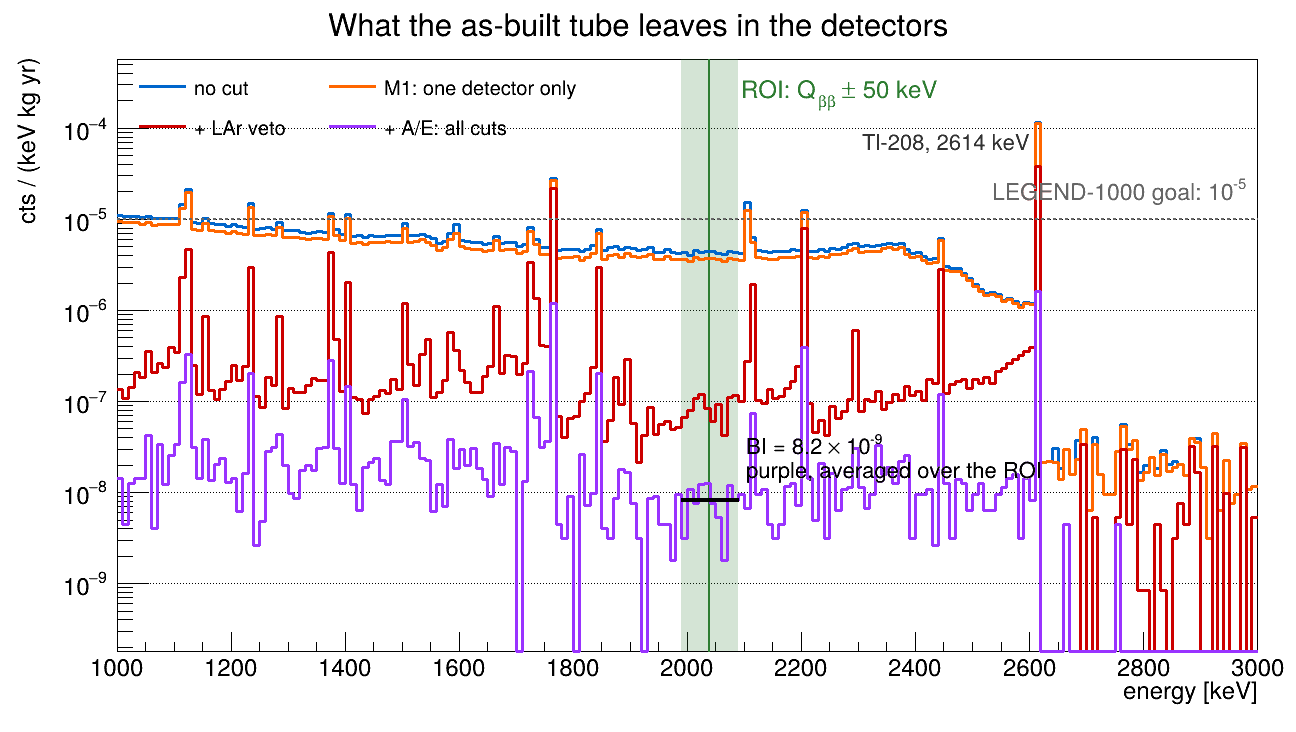
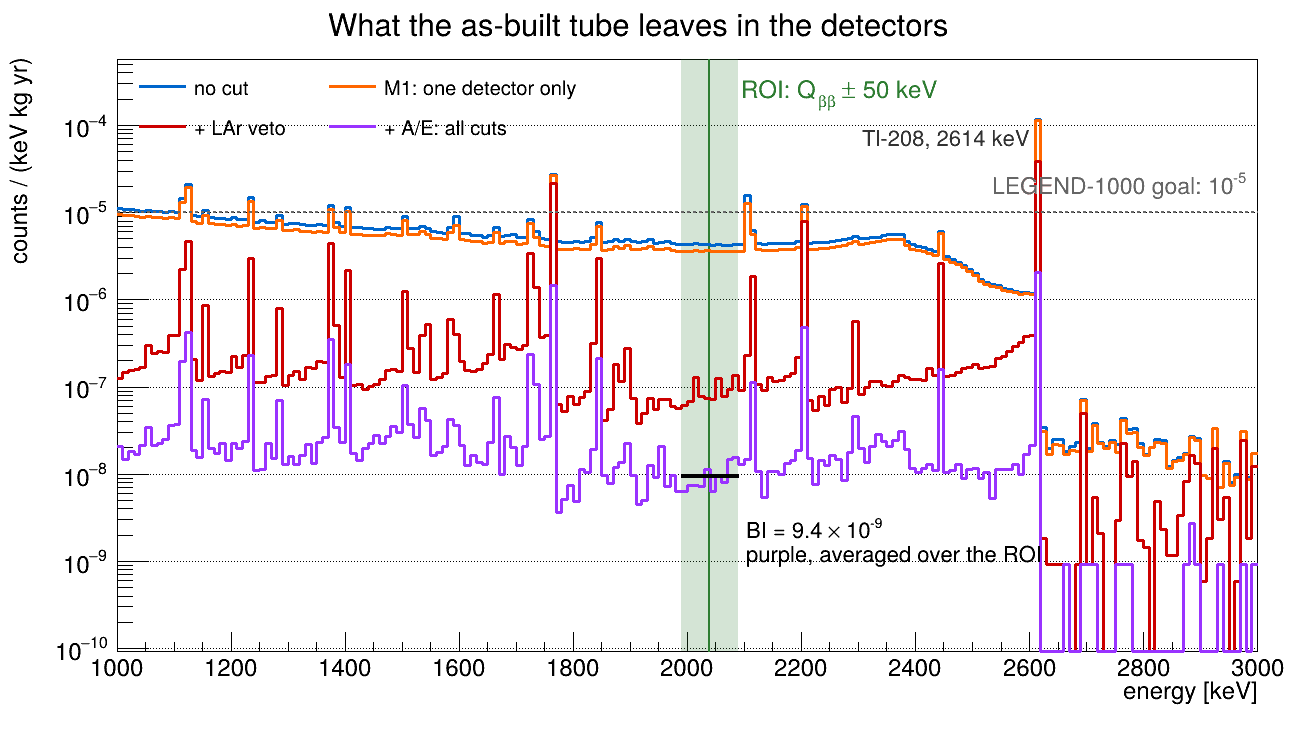
results from a nersc rerun with more EFCu stats

diff --git a/ana/background.C b/ana/background.C
@@ -16,9 +16,10 @@ namespace cfg
   // the cuts of the LEGEND-1000 simulation production (legend1000-metadata simprod/config, l1000dsg01: tier/evt, pars/geds/psdcuts)
   const double m1_keV = 25.0;  // a detector fired above this; M1: exactly one did
   const double lar_pe = 4.0;   // the LAr veto rejects a decay whose SiPMs see this many photoelectrons, summed
-  const double psd_low = -1.5; // the production's A/E cut: keep a hit whose A/E classifier is above this (low side)
-  // ...but the analysis sets it as LEGEND does in data ([5]): at the classifier value that keeps this fraction of the Tl208
-  // double-escape peak (DEP, single site like 0vbb) in M1 events, net of the continuum under it
+  const double psd_low = -1.5; // the production's A/E cut, used here: keep a hit whose A/E classifier is above this (low side)
+  // LEGEND sets it in data to keep this fraction of the Tl208 double-escape peak (DEP, single site like 0vbb); here that
+  // is only checked: this one-template A/E model leaves the DEP's A/E with a long flat tail, so 90% falls far below the
+  // production's cut (-6.6 with 5x more EFCu decays), where the SEP and FEP pass 3x more than measured at HADES
   const double depKeep = 0.90, depE = 1592.5, depHalf = 2.5, sideLo = 5.0, sideHi = 10.0; // keV: peak +-2.5, sidebands 5-10 off it
   const int NC = 4;                                                                       // cut levels: none, M1, M1 + LAr, M1 + LAr + A/E
   const char *cutName[NC] = {"no cut", "M1", "M1 + LAr", "M1 + LAr + A/E"};
@@ -644,10 +645,9 @@ static std::vector<std::string> expand(const std::string &pat) // "output/tl208*
   return out;
 }
 
-// the A/E cut as LEGEND sets it: the classifier threshold that keeps cfg::depKeep of the DEP of Tl208, in M1 hits of every
-// Tl208 run of the tube, the continuum under the peak subtracted with the sidebands. one value for all detectors: they
-// share one template and one set of parameters. then the cut on the other lines a 228Th calibration measures it on, and on
-// the window's continuum, against the HADES characterization of the L1000 template detector V00000A
+// the production's A/E cut, checked: what it keeps of the DEP, SEP and FEP of Tl208 in M1 hits of every Tl208 run of the
+// tube (the continuum under each peak subtracted with the sidebands) and of the ROI, against the HADES characterization of
+// the L1000 template detector V00000A; and where LEGEND's 90%-of-the-DEP rule would put it. one value for all detectors
 static void tuneAoE(const std::vector<std::string> &files)
 {
   struct Line
@@ -703,14 +703,14 @@ static void tuneAoE(const std::vector<std::string> &files)
     printf("A/E CUT  only %.0f DEP counts net, kept at the production's %.2f\n\n", net(dep), cfg::psd_low);
     return;
   }
-  double thr = 0;
+  double thr = 0; // where the 90% rule would put it
   while (thr > -50 && kept(dep, thr) < cfg::depKeep)
     thr -= 0.005;
-  gPsdLow = thr;
-  printf("A/E CUT  tuned on the Tl208 DEP (%.1f keV) in M1 hits: %zu in +-%.1f keV, %zu in the sidebands %.0f-%.0f keV off it, %.0f net\n",
-         cfg::depE, dep.peak.size(), cfg::depHalf, dep.side.size(), cfg::sideLo, cfg::sideHi, net(dep));
-  printf("    classifier > %.2f keeps %.0f%% of it (+- %.0f%% statistics); the production's > %.2f kept %.0f%%\n", gPsdLow, 100 * kept(dep, gPsdLow),
-         100 * sqrt(cfg::depKeep * (1 - cfg::depKeep) / net(dep)), cfg::psd_low, 100 * kept(dep, cfg::psd_low));
+  gPsdLow = cfg::psd_low;
+  printf("A/E CUT  the production's classifier > %.2f, checked on the Tl208 DEP (%.1f keV) in M1 hits: %zu in +-%.1f keV, %zu in the sidebands %.0f-%.0f keV off it, %.0f net\n",
+         cfg::psd_low, cfg::depE, dep.peak.size(), cfg::depHalf, dep.side.size(), cfg::sideLo, cfg::sideHi, net(dep));
+  printf("    it keeps %.0f%% of the DEP (+- %.0f%% statistics); keeping %.0f%% would take > %.2f\n", 100 * kept(dep, gPsdLow),
+         100 * sqrt(dep.peak.size() + k * k * dep.side.size()) / net(dep), 100 * cfg::depKeep, thr);
   printf("    kept by it, net of the continuum:");
   for (auto &l : line)
     printf("  %s %.1f %.2f (%.0f net)", l.name, l.e, kept(l, gPsdLow), net(l));
@@ -823,8 +823,8 @@ void background(const char *runs = "output/output_root/tl208*_hit.root=Tl208,out
   auto massOf = [&](double d0, double d1, int m)
   { return d1 > d0 ? rt.density[m] * rt.tubeVolume(rt.zTop - d1, rt.zTop - d0) * 1e-9 : 0.0; };
   printf("INPUTS  ROI: Qbb +- %.0f keV = %.0f-%.0f keV, one window short of the Tl208 single escape (2103.5 keV): %.0f keV\n", cfg::roiHalf, cfg::winLo, cfg::winHi, cfg::winWidth);
-  printf("        cuts: M1 (exactly one detector above %.0f keV), LAr veto (the SiPMs see < %.0f photoelectrons), A/E classifier > %.2f (%.0f%% DEP, A/E CUT)\n",
-         cfg::m1_keV, cfg::lar_pe, gPsdLow, 100 * cfg::depKeep);
+  printf("        cuts: M1 (exactly one detector above %.0f keV), LAr veto (the SiPMs see < %.0f photoelectrons), A/E classifier > %.2f (the production's, A/E CUT)\n",
+         cfg::m1_keV, cfg::lar_pe, gPsdLow);
   printf("        activity: chain [uBq/kg] 232Th / 238U: SS %g / %g, Cu %g / %g, EFCu %g / %g; Tl208 is %.2f%% of 232Th, Bi214 %.0f%% of 238U\n\n",
          cfg::chain[0][0], cfg::chain[0][1], cfg::chain[1][0], cfg::chain[1][1], cfg::chain[2][0], cfg::chain[2][1], 100 * cfg::branch[0], 100 * cfg::branch[1]);
 

diff --git a/README.md b/README.md
@@ -11,11 +11,36 @@ tube's background index (BI)? "Without changing" means within 10%.
 
 |                                                                 | SS : Cu : EFCu     | BI after all cuts [counts/(keV·kg·yr)]       |
 | --------------------------------------------------------------- | ------------------ | -------------------------------------------- |
-| as built                                                        | 619 : 672 : 175 kg | 0.82 ± 0.17 × 10⁻⁸ (before cuts 4.30 × 10⁻⁶) |
-| EFCu from 4.40 m (0.33 m shorter), SS to 2.69 m (0.63 m longer) | 809 : 489 : 146 kg | +9%: within 10%                              |
+| as built                                                        | 619 : 672 : 175 kg | 0.94 ± 0.09 × 10⁻⁸ (before cuts 4.29 × 10⁻⁶) |
+| EFCu from 4.40 m (0.33 m shorter), SS to 2.69 m (0.63 m longer) | 809 : 489 : 146 kg | +8%: within 10%                              |
 
-[how radioactive is EFCu?](#how-radioactive-is-efcu) · [Method](#method) · [Results](#results) ·
-[Future work](#future-work)
+[Getting started](#getting-started) · [how radioactive is EFCu?](#how-radioactive-is-efcu) · [Method](#method) ·
+[Results](#results) · [Future work](#future-work)
+
+## Getting started
+
+Getting to the first simulation took most of the work. The LEGEND-1000 geometry is generated with the collaboration's
+`legend-pygeom-l1000` package, written out as GDML, and read by remage, the collaboration's Geant4 application, which
+registers the 336 germanium detectors from a map stored in the GDML file itself. The software was first built from
+source for this work: Geant4, BxDecay0 and remage, on both Apple Silicon and Linux, through a chain in which each stage
+tests itself before passing on ([ElmikawyStack2026](https://github.com/h0t5tuff/Physics-Simulation-Stack)); on Apple
+Silicon, remage 0.26 also needed its library paths patched by hand. Over the course of this work the remage setup grew
+from separate tutorial examples into the single simulation used here, `sim/run.mac`, on remage's 1.1.0 release: pixi
+on the Mac, the collaboration's container on NERSC.
+
+The first geometry tried was a modified file, `KSendcap_l1kGeometry.gdml` (KS). Against the unmodified geometry, its
+tube's radius and its position along the axis were both shifted by 68 mm, with its length unchanged, and its endcap
+was 1 mm wider than the barrel where the two meet, so the tube check of §1 failed. Everything here uses the unmodified
+geometry ([ElmikawyRTsim2026](https://github.com/h0t5tuff/LEGEND1000-Simulation)).
+
+Three words, used throughout:
+
+- **decay:** one simulated nuclear decay of Tl-208 or Bi-214 in the tube's wall (a whole chain, for the holders);
+- **hit:** the energy one decay leaves in one detector; `sim/hit.py` makes them from the simulation's steps, and one
+  decay can leave hits in several detectors;
+- **count:** a decay whose energy in a detector lands in the ROI (the 100 keV window around `Qββ`, §4), after the
+  cuts in force. The simulation gives *simulated counts*; each stands for w real decays a year, and Σw is the
+  *counts a year* (§4).
 
 ## how radioactive is EFCu?
 
@@ -49,10 +74,20 @@ the analysis, §5 included (it runs inside `ana/background.C`).
 ### 1. The geometry
 
 `geom/l1000geom/l1000.gdml` (legend-pygeom-l1000 0.6.0), the full LEGEND-1000 geometry. The tube is 6.246 m tall and
-0.999 m in radius, its walls EFCu 1.5 mm (2.1 mm at the Cu seam), Cu and SS 6 mm; the 336 detectors sit 4.8-5.9 m
-below its top, inside the EFCu section. `ana/background.C` reads all of this from the GDML, with the densities and
-the germanium mass, and checks it before using it: a clean outline, the bottom head and the Cu and SS layers flush
-with the barrel.
+0.999 m in radius; the 336 detectors sit 4.8-5.9 m below its top, inside the EFCu section.
+
+Two checks run before any physics ([ElmikawyRTsim2026](https://github.com/h0t5tuff/LEGEND1000-Simulation)). The first
+builds the geometry and scans it for overlapping volumes: none (83 s). The second, at the start of
+`ana/background.C`, reads the tube from the GDML, with the densities and the germanium mass, and checks it: a clean
+outline, the bottom head and the Cu and SS layers flush with the barrel. It also profiles the wall: 1.5 mm of EFCu
+through the endcap and lower wall, thickening to 3 mm over the last 2 cm below the Cu seam, and 6 mm through the Cu
+and SS.
+
+Every later step reads the tube from this one file (the analysis, the pictures, the app), so no calculation uses a
+radius or seam typed into a script, apart from the lid's position, which `sim/run.mac` leaves out of the sampling.
+Wall volumes are computed by integrating the GDML outlines; an independent integration, by sampling points in the
+solids, agrees to 0.1%. A new design is a new GDML file; apart from that lid position, nothing downstream needs
+editing.
 
 ![the tube](output/tube.png)
 
@@ -73,6 +108,7 @@ borehole 53 mm deep from the top: 3.046 kg, 1023.4 kg in all. `geom/l1000geom/l1
 alone, offscreen, and prints its numbers:
 
 ```bash
+remage --ignore-warnings -s GDML=geom/l1000geom/l1000.gdml -s SKIP=false -s NPOINTS=1000 -- geom/l1000geom/check.mac 2>&1 | grep "Overlap is detected"
 ~/venvs/v/bin/python geom/l1000geom/l1000-autopeel.py --tube output/tube_geometry.png
 ~/venvs/v/bin/python geom/l1000geom/l1000-autopeel.py --uglar output/uglar_geometry.png
 ~/venvs/v/bin/python geom/l1000geom/l1000-autopeel.py --hpge output/hpge_geometry.png
@@ -85,11 +121,13 @@ chain) or **Bi-214** (²³⁸U chain), the only chain members whose gammas reach
 leaves in each detector and in the UGLAr. Its `-s` aliases: `GDML`; `Z` `A` (Tl-208: 81 208, Bi-214: 83 214); `NEV`;
 `SEED`, which starts remage's random numbers (the same seed repeats the same decays, so every run has its own) and
 names the run's file; `VOLS`, a regex over the source volumes `reentrance_tube_copper` (EFCu),
-`reentrance_tube_layer_copper_ofhc` (Cu) or `reentrance_tube_layer_steel_316L` (SS). Each run is 10 M decays (7.6 M
-in the EFCu runs) of one nuclide in one section, a 32-thread NERSC task of 16-60 min, and writes
+`reentrance_tube_layer_copper_ofhc` (Cu) or `reentrance_tube_layer_steel_316L` (SS). Each run is 10 M decays of one
+nuclide in one section, a 32-thread NERSC task of 16-75 min, and writes
 `output/output_lh5/<nuclide>_<SEED>.lh5`: `stp/` (the steps in the germanium detectors and in
 `liquid_argon_underground`), `vtx` (one row per decay, with its position), `detector_origins`,
-`number_of_simulated_events`. They are kept: every rerun starts here.
+`number_of_simulated_events`. They are kept: every rerun starts here. The tube has no lid: `sim/run.mac` leaves the
+EFCu's top closure out of the sampling, and the first six EFCu runs, made before that, had its decays removed from
+their files afterwards (7.6 M of each 10 M kept).
 
 The sections are simulated separately because their decays reach the detectors at very different rates, so each gets
 the decays it needs (a run over the whole tube would put nearly 9 in 10 of its decays in the Cu and SS, which the detectors
@@ -97,16 +135,16 @@ barely see); §5 combines them into any design:
 
 | section | runs | decays (Tl-208 / Bi-214) | real years they stand for | why that many                                                                                           |
 | ------- | ---- | ------------------------ | ------------------------- | ------------------------------------------------------------------------------------------------------- |
-| EFCu    | 6    | 23 M / 23 M              | 31 000 / 22 000           | next to the array, they give 21 of the BI's 26 counts after all cuts: the BI's ±21%                     |
-| Cu      | 366  | 460 M / 3.2 G            | 55 000 / 116 000          | they decide how far the SS can come down (§5): one count, turned into SS, adds 14% of the BI            |
+| EFCu    | 25   | 122 M / 112 M            | 166 000 / 107 000         | next to the array, they give 122 of the BI's 128 counts after all cuts: the BI's ±9%                    |
+| Cu      | 366  | 460 M / 3.2 G            | 55 000 / 116 000          | they decide how far the SS can come down (§5): one count, turned into SS, adds 12% of the BI            |
 | SS      | 36   | 50 M / 310 M             | 7 / 6                     | 2.7-4.8 m above the array: none of their decays puts a count in the ROI (§4), at any cut level          |
-| total   | 408  | 4.1 × 10⁹                |                           | 66 GB                                                                                                   |
+| total   | 427  | 4.3 × 10⁹                |                           | 76 GB                                                                                                   |
 
 "Real years": how long the section, as built, takes to make that many decays (its activity × mass, §4). In the Cu and
 SS, Bi-214 needs ~7 × the decays of Tl-208: the SS holds ~7 × more Bi-214 than Tl-208 (2500 vs 360 µBq/kg), and a
-count turned into SS (§5) must weigh the same in both chains. On NERSC's Perlmutter the runs took 122 task-hours, 17
-node-hours of the m2676 allocation (16 min for a typical Cu run); back to back on an M1 Pro MacBook (8 threads,
-22.5 min for that run) ~175 hours, about a week. Another 55 node-hours went into runs that turned out not to change
+count turned into SS (§5) must weigh the same in both chains. On NERSC's Perlmutter the runs took 142 task-hours, 20
+node-hours of the m2676 allocation (16 min for a typical Cu run, about an hour for an EFCu run); back to back on an
+M1 Pro MacBook (8 threads: 22.5 min for a Cu run, 2.9 h for an EFCu run) ~220 hours, about 9 days. Another 55 node-hours went into runs that turned out not to change
 the answer, and were deleted.
 
 **How many decays each section needs.** Measured, not guessed, per nuclide and section:
@@ -117,7 +155,7 @@ the answer, and were deleted.
    BI's relative uncertainty, squared: (BI uncertainty)² = Σ f²/n. For ±10%, the size of the 10% line: Σ f²/n ≤ 0.01.
 3. **The decays needed** = counts needed ÷ p.
 
-From the first 408 runs (§4's table), in the 100 keV ROI:
+From the first 408 runs, in the 100 keV ROI, with the A/E cut then at −1.06 (§4's table has today's numbers):
 
 | nuclide | section | share f of the BI | p = counts ÷ decays          | counts needed for ±10% | decays needed | decays then  |
 | ------- | ------- | ----------------- | ---------------------------- | ---------------------- | ------------- | ------------ |
@@ -128,14 +166,16 @@ From the first 408 runs (§4's table), in the 100 keV ROI:
 | both    | SS      | 0%                | 0 ÷ 360 M                    | none                   | —             | 50 M / 310 M |
 
 Then: 0.58²/15 + 0.33²/6 + 0.065²/3 + 0.02²/2 = 0.043, ±21%. With ~80 and ~28 EFCu counts it is 0.0098, ±10%: the
-EFCu needs ~5 × its decays, the Cu and SS none.
+EFCu needs ~5 × its decays, the Cu and SS none. The 19 EFCu runs this asked for, 10 M decays each without the lid
+(10 Tl-208, 9 Bi-214, 2.7 node-hours), brought the EFCu to 122 counts after all cuts (77 Tl-208, 45 Bi-214, with the
+production's A/E cut, §4) and the BI to ±9%.
 
 A design adds one need. A count moved into a new material takes that material's weight, so the decays of the section
-it comes from set how big a step one count is. For the SS limit that is the Cu: one Cu count turned into SS adds 14%
-of the BI. Bringing that to ~3% would take ~4.6 × the Cu decays (~2 G Tl-208 and ~15 G Bi-214, ~50 node-hours): not
+it comes from set how big a step one count is. For the SS limit that is the Cu: one Cu count turned into SS adds 12%
+of the BI. Bringing that to ~3% would take ~4 × the Cu decays (~1.8 G Tl-208 and ~13 G Bi-214, ~40 node-hours): not
 worth it, so the SS limit stays set by a single count.
 
-To rerun them (`<SEEDS>`: EFCu 7001-7003 / 8001-8003, Cu 5001-5046 / 6001-6320, SS 3001-3005 / 4001-4031 for
+To rerun them (`<SEEDS>`: EFCu 7001-7013 / 8001-8012, Cu 5001-5046 / 6001-6320, SS 3001-3005 / 4001-4031 for
 Tl-208 / Bi-214; `<NUCLIDE>` `<Z>` `<A>`: `tl208 81 208` or `bi214 83 214`; `<VOLS>` the section's volume):
 
 ```bash
@@ -175,10 +215,10 @@ bring their own dead layer, resolution and A/E.
   production's second condition, 4 SiPMs with light, and random coincidences are left out). This v0.4.0 map stops
   68 mm short of this UGLAr's outer wall (the argon there takes the light at the map's edge), and argon above
   z = 1.375 m gives no light, so until the 0.6.0 map
-  arrives the BI is a 0.8-2.4 × 10⁻⁸ range (2.4 × 10⁻⁸ with the LAr veto read off the map alone, no light from the
+  arrives the BI is a 0.9-2.8 × 10⁻⁸ range (2.8 × 10⁻⁸ with the LAr veto read off the map alone, no light from the
   argon beyond its edge).
 
-`sim/hit.py` writes `output/output_root/<nuclide>_<SEED>_hit.root` (~7 s a file, ~50 GB in all; only `ana/background.C` reads
+`sim/hit.py` writes `output/output_root/<nuclide>_<SEED>_hit.root` (~7 s a file, 20-40 s for an EFCu run; ~50 GB in all; only `ana/background.C` reads
 them): TTrees `geds` (`evtid`, `det`, `edep`, `energy` [keV], `aoe_class`), `lar` (`evtid`, `edep`, `pe`, `pe_map`),
 `vtx` (`evtid`, `xloc`, `yloc`, `zloc` [m]). Options: `--optmap`, `--dtmap`, `--metadata`, `--gdml`, `--outdir`
 (defaults: the two maps fetched below, the metadata above, §1's GDML, `output/output_root`); `--seed` (default 1; not remage's `SEED`: with each
@@ -196,19 +236,20 @@ rsync -a nersc:/global/cfs/cdirs/m2676/users/neuberger/L1000_optical_muon_sims/h
 
 `ana/background.C` is the analysis and its figures. Its arguments, both optional: the hit files, as `pattern=nuclide`
 pairs (wildcards merge files; default: the Tl-208 and Bi-214 sets in `output/output_root`), and the GDML (default
-`geom/l1000geom/l1000.gdml`). The cuts, activities and the 10% line are in `cfg` (`m1_keV`, `lar_pe`, `depKeep`,
+`geom/l1000geom/l1000.gdml`). The cuts, activities and the 10% line are in `cfg` (`m1_keV`, `lar_pe`, `psd_low`,
 `chain`, `simTol`).
 
 **Cuts**, in LEGEND's order: **M1** (exactly one detector above 25 keV) and the **LAr veto** (rejects ≥ 4 PE), both
-from legend1000-metadata's `tier/evt`; then **A/E** > −1.06, single-site-like, placed by LEGEND's convention to keep
-90% of the Tl-208 double-escape peak (DEP, 1592.5 keV, single-site; the production's −1.5 keeps 92%). It is one value
-for all detectors, tuned here on the simulation's 488 DEP counts after M1 (net of the continuum; the 90% is ±1%
-statistics). What it keeps of each Tl-208 peak and of the ROI, next to `V00000A`'s measurement at HADES (the
-underground lab where LEGEND characterises its detectors):
+from legend1000-metadata's `tier/evt`; then **A/E** > −1.5, single-site-like: the production's cut, one value for
+all detectors. In data LEGEND places it to keep 90% of the Tl-208 double-escape peak (DEP, 1592.5 keV, single-site).
+Here −1.5 keeps 87 ± 3% of the simulation's 2992 DEP counts after M1 (net of the continuum), and 90% would take −6.6:
+this one-template A/E leaves the DEP's A/E with a long flat tail, and at −6.6 the other peaks pass 3 × what HADES
+measures. So the production's cut is kept. What it keeps of each Tl-208 peak and of the ROI, next to `V00000A`'s
+measurement at HADES (the underground lab where LEGEND characterises its detectors):
 
 | kept by A/E        | DEP 1592.5 keV | SEP 2103.5 keV (single escape) | FEP 2614.5 keV (full energy) | ROI  |
 | ------------------ | -------------- | ------------------------------ | ---------------------------- | ---- |
-| this simulation    | 0.90           | 0.02                           | 0.04                         | 0.25 |
+| this simulation    | 0.87           | 0.03                           | 0.05                         | 0.29 |
 | `V00000A` at HADES | 0.90           | 0.04                           | 0.06                         | 0.27 |
 
 **BI** is counts in the **ROI**, one window around `Qββ`: `Qββ` ± 50 keV (1989-2089 keV, **100 keV**), stopping
@@ -234,17 +275,18 @@ are from Ralph Massarczyk's MaterialMix talk (23 Jun 2026):
 | Cu     | 1.1         | 1.3        | [MAJORANA assay](https://doi.org/10.1103/PhysRevC.110.055804) |
 | EFCu   | 0.37        | 0.19       | M. Green                                                      |
 
-The tube as built, from mass to BI (each section sampled at its own density, §2):
+The tube as built, from mass to BI (each section sampled at its own density, §2; decays counted where they happened,
+so ~1 M of the EFCu runs' decays, just above the Cu seam, count as Cu):
 
 | chain  | section | mass     | real decays a year | simulated decays | w           | simulated counts: no cut / M1 / + LAr / + A/E | counts a year, all cuts | BI, all cuts       |
 | ------ | ------- | -------- | ------------------ | ---------------- | ----------- | --------------------------------------------- | ----------------------- | ------------------ |
-| Tl-208 | EFCu    | 174.6 kg | 733                | 22.6 M           | 3.2 × 10⁻⁵  | 11955 / 9954 / 81 / 15                        | 4.9 × 10⁻⁴              | 4.75 ± 1.20 × 10⁻⁹ |
-| Tl-208 | Cu      | 671.7 kg | 8 380              | 460 M            | 1.8 × 10⁻⁵  | 542 / 490 / 34 / 3                            | 0.5 × 10⁻⁴              | 0.53 ± 0.31 × 10⁻⁹ |
+| Tl-208 | EFCu    | 174.6 kg | 733                | 122 M            | 6.0 × 10⁻⁶  | 63755 / 52911 / 437 / 77                      | 4.6 × 10⁻⁴              | 4.52 ± 0.52 × 10⁻⁹ |
+| Tl-208 | Cu      | 671.7 kg | 8 380              | 461 M            | 1.8 × 10⁻⁵  | 551 / 497 / 34 / 3                            | 0.5 × 10⁻⁴              | 0.53 ± 0.31 × 10⁻⁹ |
 | Tl-208 | SS      | 619.4 kg | 7.0 × 10⁶          | 50.0 M           | 0.14        | 0 / 0 / 0 / 0                                 | 0                       | 0                  |
-| Bi-214 | EFCu    | 174.6 kg | 1 047              | 22.6 M           | 4.6 × 10⁻⁵  | 907 / 834 / 113 / 6                           | 2.8 × 10⁻⁴              | 2.71 ± 1.10 × 10⁻⁹ |
-| Bi-214 | Cu      | 671.7 kg | 27 560             | 3.20 G           | 8.6 × 10⁻⁶  | 169 / 159 / 42 / 2                            | 0.2 × 10⁻⁴              | 0.17 ± 0.12 × 10⁻⁹ |
+| Bi-214 | EFCu    | 174.6 kg | 1 047              | 112 M            | 9.4 × 10⁻⁶  | 4720 / 4383 / 588 / 45                        | 4.2 × 10⁻⁴              | 4.11 ± 0.61 × 10⁻⁹ |
+| Bi-214 | Cu      | 671.7 kg | 27 560             | 3.20 G           | 8.6 × 10⁻⁶  | 170 / 160 / 42 / 3                            | 0.3 × 10⁻⁴              | 0.25 ± 0.15 × 10⁻⁹ |
 | Bi-214 | SS      | 619.4 kg | 4.9 × 10⁷          | 310 M            | 0.16        | 0 / 0 / 0 / 0                                 | 0                       | 0                  |
-| all    |         |          |                    | 4.07 G           |             | 26 after all cuts                             | 8.4 × 10⁻⁴              | 8.2 ± 1.7 × 10⁻⁹   |
+| all    |         |          |                    | 4.26 G           |             | 128 after all cuts                            | 9.6 × 10⁻⁴              | 9.4 ± 0.9 × 10⁻⁹   |
 
 ```bash
 root -l -b -q ana/background.C
@@ -254,7 +296,7 @@ root -l -b -q ana/background.C
 
 A design moves the two seams: the SS ends at depth L1 (2.06 m as built) and the EFCu starts at depth L2 (4.07 m),
 with Cu between. The wall keeps its shape and thickness as built; only the material of each part changes (EFCu turned
-into Cu at 4.07-4.50 m is the EFCu's 1.5 mm wall, made of Cu). `ana/background.C` scans them: for every L2, L1 goes
+into Cu at 4.07-4.40 m is the EFCu's 1.5 mm wall, made of Cu). `ana/background.C` scans them: for every L2, L1 goes
 down 1 cm at a time while the BI stays within 10% of the as-built's. The answer is the least EFCu, then, for it, the
 most SS.
 
@@ -274,16 +316,16 @@ runs:
 **Why the Cu runs decide the SS.** The SS added in a design would sit where the Cu is now, 2-3 m above the array,
 and only the Cu runs have decays there. Those decays rarely reach the detectors: there, one in ~5 × 10⁷ Tl-208
 decays gives an ROI count after M1, and none of 1.7 × 10⁹ Bi-214 decays does (the table below). Turned into SS, each
-such count weighs ~1000 times more: one adds 14% of the BI, more than the 10% line. So the SS can come down to just
+such count weighs ~1000 times more: one adds 12% of the BI, more than the 10% line. So the SS can come down to just
 above the first such count, at 2.70 m: the step in the design map.
 
 **Cut survival.** Too few counts survive all cuts away from the detectors to measure the change on them, so it is
-measured on the ROI counts that pass M1, 100-600 times more, times the **cut survival**: the fraction of them that
+measured on the ROI counts that pass M1, 100-700 times more, times the **cut survival**: the fraction of them that
 also pass the LAr veto and A/E. It is taken where the change is, from the simulated ROI counts per 0.62 m slab below
 the tube's top (the table):
 
-- near the detectors (below 4.37 m), per chain: 1.4 × 10⁻³ (Tl-208), 7.3 × 10⁻³ (Bi-214);
-- higher up, both chains together: 6 of 771 = 7.8 × 10⁻³. Tl-208's counts survive ~5 × more often there, partly
+- near the detectors (below 4.37 m), per chain: 1.4 × 10⁻³ (Tl-208), 1.0 × 10⁻² (Bi-214);
+- higher up, both chains together: 10 of 1258 = 8.0 × 10⁻³. Tl-208's counts survive ~4 × more often there, partly
   because the optical map gives no light above z = 1.375 m.
 
 | depth [m]                        | Tl-208 decays | ROI after M1 | after all cuts | Bi-214 decays | ROI after M1 | after all cuts |
@@ -291,11 +333,11 @@ the tube's top (the table):
 | 0.00-1.87                        | 45.4 M        | 0            | 0              | 282 M         | 0            | 0              |
 | 1.87-2.50                        | 105 M         | 0            | 0              | 729 M         | 0            | 0              |
 | 2.50-3.12                        | 144 M         | 5            | 0              | 1.00 G        | 0            | 0              |
-| 3.12-3.75                        | 144 M         | 97           | 0              | 1.00 G        | 29           | 1              |
-| 3.75-4.37                        | 74.5 M        | 503          | 4              | 496 M         | 137          | 1              |
-| 4.37-5.00                        | 6.83 M        | 2162         | 3              | 6.82 M        | 173          | 1              |
-| 5.00-5.62                        | 6.82 M        | 4910         | 7              | 6.82 M        | 432          | 3              |
-| 5.62-6.25, nearest the detectors | 5.55 M        | 2767         | 4              | 5.56 M        | 222          | 2              |
+| 3.12-3.75                        | 144 M         | 97           | 0              | 1.00 G        | 29           | 2              |
+| 3.75-4.37                        | 90.3 M        | 959          | 6              | 511 M         | 168          | 2              |
+| 4.37-5.00                        | 36.7 M        | 11645        | 16             | 33.8 M        | 958          | 7              |
+| 5.00-5.62                        | 36.7 M        | 26443        | 37             | 33.7 M        | 2217         | 23             |
+| 5.62-6.25, nearest the detectors | 29.9 M        | 14259        | 21             | 27.5 M        | 1171         | 14             |
 
 ## Results
 
@@ -304,7 +346,7 @@ the tube's top (the table):
 
 | no cut      | M1                          | M1 + LAr                                     | all cuts (M1 + LAr + A/E)                           |
 | ----------- | --------------------------- | -------------------------------------------- | --------------------------------------------------- |
-| 4.30 × 10⁻⁶ | 3.63 × 10⁻⁶: M1 removes 16% | 0.86 ± 0.06 × 10⁻⁷: the LAr veto removes 98% | **0.82 ± 0.17 × 10⁻⁸**: A/E removes 91% of the rest |
+| 4.29 × 10⁻⁶ | 3.61 × 10⁻⁶: M1 removes 16% | 0.89 ± 0.03 × 10⁻⁷: the LAr veto removes 98% | **0.94 ± 0.09 × 10⁻⁸**: A/E removes 89% of the rest |
 
 ![the spectrum](output/slide_spectrum.png)
 
@@ -317,14 +359,14 @@ the black line across it, the 10⁻⁵ goal dashed.
 | ----------------- | ---------- | ---------- | ---------------------- | ------------------------------ |
 | 4.07 m, as built  | 175 kg     | 2.69 m     | 809 : 460 : 175 kg     | +0%                            |
 | 4.20 m            | 163 kg     | 2.69 m     | 809 : 472 : 163 kg     | +2%                            |
-| 4.30 m            | 154 kg     | 2.69 m     | 809 : 480 : 154 kg     | +5%                            |
-| **4.40 m**        | **146 kg** | **2.69 m** | **809 : 489 : 146 kg** | **+9%**                        |
+| 4.30 m            | 154 kg     | 2.69 m     | 809 : 480 : 154 kg     | +4%                            |
+| **4.40 m**        | **146 kg** | **2.69 m** | **809 : 489 : 146 kg** | **+8%**                        |
 | 4.50 m and deeper | ≤ 137 kg   | none       |                        | more than 10% at any SS length |
 
 - **EFCu** can start 0.33 m lower, at 4.40 m: 146 kg instead of 175 (−17%). Deeper, the Cu that would replace it
   sits next to the detectors at 3-7 × EFCu's activity, and the BI rises more than 10% whatever the SS.
 - **SS** can come down to 2.69 m: 809 kg instead of 619 (+190 kg), whatever the EFCu, just above the first Cu count
-  that, turned into SS, would add 14% at once.
+  that, turned into SS, would add 12% at once.
 - **The SS as built** never reaches the detectors: no ROI count at any cut level in its 360 M decays.
 
 ![the designs](output/slide_designs.png)
